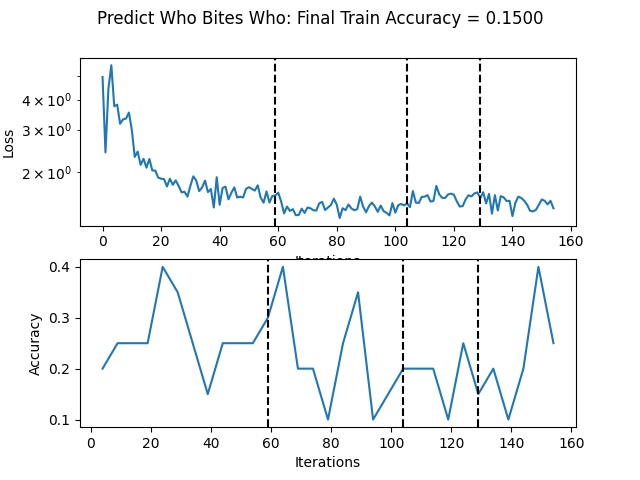
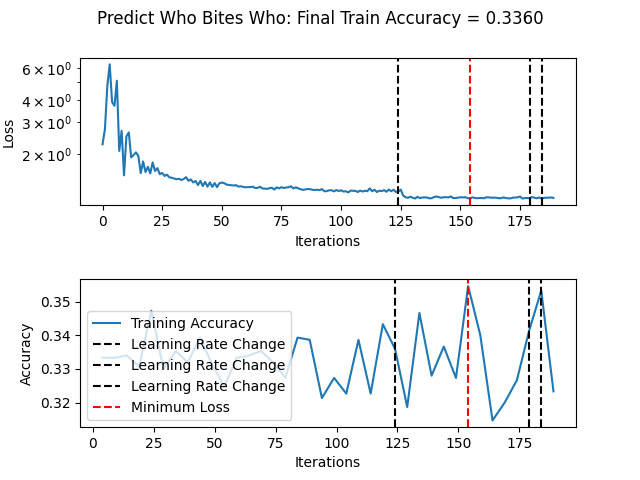
bites bites bites bite sbies bites bites bites bites BITES BTIES BITES BITES BITES BITES BITES BITES

diff --git a/Hw_6/runners/predict_who_bites_who.py b/Hw_6/runners/predict_who_bites_who.py
@@ -1,3 +1,4 @@
+import tempfile
 from pathlib import Path
 
 import matplotlib.pyplot as plt
@@ -8,7 +9,6 @@ import yaml
 from datasets import load_dataset
 
 from helpers.adam import Adam
-from helpers.tokenizer import Tokenizer
 from modules.transformer_decoder import TransformerDecoder
 
 
@@ -37,7 +37,6 @@ def train(config_path: Path, use_last_checkpoint: bool):
     num_iters = config["learning"]["num_iters"]
     weight_decay = config["learning"]["weight_decay"]
     context_length = config["data"]["context_length"]
-    min_vocab_size = config["data"]["min_vocab_size"]
     num_heads = config["transformer"]["num_heads"]
     model_dim = config["transformer"]["model_dim"]
     ffn_dim = config["transformer"]["ffn_dim"]
@@ -47,34 +46,18 @@ def train(config_path: Path, use_last_checkpoint: bool):
     rng.reset_from_seed(0x43966E87BD57227011B5B03B58785EC1)
     tf.random.set_seed(0x43966E87BD57227011B5B03B58785EC1)
 
-    # TODO: padding mask
-    with open("data/who_bites_who.txt", "r", encoding="utf-8") as f:
-        one_big_slab_of_text = f.read()
-
-    tokenizer = Tokenizer(context_length, False)
-    tokenized_text = tokenizer(one_big_slab_of_text)
-
-    # add the start token
-    targets = tokenized_text
-    hashed_targets = tf.strings.to_hash_bucket_fast(targets, min_vocab_size)
-
-    tokenized_text = tf.concat(
-        [
-            tf.fill([tokenized_text.shape[0], 1], b"<START>"),
-            tokenized_text,
-        ],
-        axis=1,
-    )
-    tokenized_text = tokenized_text[:, :-1]
+    input_file = "data/who_bites_who.txt"
 
     transformer_decoder = TransformerDecoder(
-        min_vocab_size,
         context_length,
         num_heads,
         model_dim,
         ffn_dim,
         num_blocks,
+        input_file,
     )
+
+    text, targets = transformer_decoder.get_tokens_and_targets()
 
     used_patience = 0
     minimum_train_loss = np.inf
@@ -97,9 +80,11 @@ def train(config_path: Path, use_last_checkpoint: bool):
     )
 
     checkpoint = tf.train.Checkpoint(transformer_decoder)
+    # create a temporary directory to store the checkpoints
+    temp_dir = tempfile.mkdtemp()
     checkpoint_manager = tf.train.CheckpointManager(
         checkpoint,
-        "temp/checkpointtemp/checkpoints/predict_who_bites_whos/predict_who_bites_who",
+        temp_dir,
         max_to_keep=1,
     )
     if use_last_checkpoint:
@@ -120,12 +105,12 @@ def train(config_path: Path, use_last_checkpoint: bool):
 
     for i in bar:
         batch_indices = rng.uniform(
-            shape=[batch_size], maxval=tokenized_text.shape[0], dtype=tf.int32
+            shape=[batch_size], maxval=text.shape[0], dtype=tf.int32
         )
 
         with tf.GradientTape() as tape:
-            input_tokens_batch = tf.gather(tokenized_text, batch_indices)
-            targets_batch = tf.gather(hashed_targets, batch_indices)
+            input_tokens_batch = tf.gather(text, batch_indices)
+            targets_batch = tf.gather(targets, batch_indices)
 
             labels = targets_batch
             logits = transformer_decoder(input_tokens_batch)
@@ -194,34 +179,55 @@ def train(config_path: Path, use_last_checkpoint: bool):
                 learning_rate_index += 1
                 adam.learning_rate = learning_rates[learning_rate_index]
                 learning_rate_change_steps = np.append(learning_rate_change_steps, i)
-                minimum_loss_step_num = i
-                # TODO: i feel like this should be here but smth is wrong
-                # checkpoint_manager.restore_or_initialize()
+                checkpoint_manager.restore_or_initialize()
 
     checkpoint_manager.restore_or_initialize()
+
+    # delete the temporary directory
+    tf.io.gfile.rmtree(temp_dir)
+
     checkpoint_manager = tf.train.CheckpointManager(
         checkpoint, "artifacts/who_bites_who/model", max_to_keep=1
     )
+    checkpoint_manager.save()
 
     batch_indices = rng.uniform(
-        shape=[batch_size], maxval=tokenized_text.shape[0], dtype=tf.int32
+        shape=[batch_size], maxval=text.shape[0], dtype=tf.int32
     )
-    input_tokens_batch = tf.gather(tokenized_text, batch_indices)
-    targets_batch = tf.gather(hashed_targets, batch_indices)
+    input_tokens_batch = tf.gather(text, batch_indices)
+    targets_batch = tf.gather(targets, batch_indices)
 
     fig, ax = plt.subplots(2, 1)
+    plt.subplots_adjust(hspace=0.5)
 
     ax[0].semilogy(x_train_loss_iterations, y_train_batch_loss, label="Training Loss")
     for learning_rate_change_step in learning_rate_change_steps:
-        ax[0].axvline(x=learning_rate_change_step, color="black", linestyle="dashed")
+        ax[0].axvline(
+            x=learning_rate_change_step,
+            color="black",
+            linestyle="dashed",
+            label="Learning Rate Change",
+        )
+    ax[0].axvline(
+        x=minimum_loss_step_num, color="red", linestyle="dashed", label="Minimum Loss"
+    )
     ax[0].set_xlabel("Iterations")
     ax[0].set_ylabel("Loss")
 
     ax[1].plot(x_train_accuracy_iterations, y_train_accuracy, label="Training Accuracy")
     for learning_rate_change_step in learning_rate_change_steps:
-        ax[1].axvline(x=learning_rate_change_step, color="black", linestyle="dashed")
+        ax[1].axvline(
+            x=learning_rate_change_step,
+            color="black",
+            linestyle="dashed",
+            label="Learning Rate Change",
+        )
+    ax[1].axvline(
+        x=minimum_loss_step_num, color="red", linestyle="dashed", label="Minimum Loss"
+    )
     ax[1].set_xlabel("Iterations")
     ax[1].set_ylabel("Accuracy")
+    ax[1].legend()
 
     print("\n\n\n\n")
 
@@ -294,6 +300,8 @@ def test(model_path: Path):
 
     file = open("artifacts/agnews/classify_agnews_test_accuracy.txt", "w")
     file.write(f"{test_accuracy_value:0.4f}")
+    file.close()
+    file.close()
     file.close()
     file.close()
     file.close()

diff --git a/Hw_6/modules/transformer_decoder.py b/Hw_6/modules/transformer_decoder.py
@@ -1,7 +1,10 @@
+import tempfile
+
 import tensorflow as tf
 
-from helpers.embedder import Embedder
+from helpers.embed_to_vocab_file import EmbedToVocabFile
 from helpers.positional_encoding import PositionalEncoding
+from helpers.tokenizer import Tokenizer
 from modules.linear import Linear
 from modules.transformer_decoder_block import TransformerDecoderBlock
 
@@ -20,24 +23,35 @@ class TransformerDecoder(tf.Module):
         model_dim: Size of each attention head for value, query, and queue.
         ffn_dim: Size of the hidden layer in the feed-forward network.
         num_blocks: Number of transformer decoder blocks.
+        input_file: Path to the input file. Cannot be None for training.
+        vocab_file: Path to the vocab file. If None, a temporary file will be created.
         dropout: Dropout probability.
 
     Call arguments:
         input: Input `Tensor` of shape `(B, seq_len)`.
         mask: Optional mask tensor of shape `(B, seq_len, seq_len)`.
+
+    Returns:
+        Output `Tensor` of shape `(B, seq_len, vocab_size)`.
     """
 
     def __init__(
         self,
-        min_vocab_size,
         context_length,
         num_heads,
         model_dim,
         ffn_dim,
         num_blocks,
+        input_file=None,
+        vocab_file=None,
         dropout_prob=0.1,
     ):
-        self.embedder = Embedder(min_vocab_size, model_dim)
+        self.input_file = input_file
+        self.context_length = context_length
+        if vocab_file is None:
+            vocab_file = self.create_vocab_file(input_file)
+
+        self.embedder = EmbedToVocabFile(vocab_file, model_dim)
         self.positional_encoding = PositionalEncoding(context_length, model_dim)
 
         self.layers = [
@@ -45,7 +59,49 @@ class TransformerDecoder(tf.Module):
             for _ in range(num_blocks)
         ]
 
-        self.linear = Linear(model_dim, min_vocab_size)
+        self.vocab_size = self.embedder.get_vocab_size()
+        self.linear = Linear(model_dim, self.vocab_size)
+
+    def create_vocab_file(self, input_file):
+        # Open the input file and read its contents
+        with open(input_file, "r", encoding="utf-8") as f:
+            input_text = f.read()
+
+        # Tokenize the contents of the file
+        tokenizer = Tokenizer(self.context_length, False)
+        tokenized_text = tokenizer(input_text)
+
+        # Flatten the tokenized_text tensor to 1D
+        flattened_text = tf.reshape(tokenized_text, [-1])
+
+        # Create a tensor of unique tokens
+        unique_tokens, _ = tf.unique(flattened_text)
+
+        # Write these unique tokens to a new vocab file
+        vocab_file = tempfile.NamedTemporaryFile(delete=False)
+        with open(vocab_file.name, "w", encoding="utf-8") as vocab_file:
+            for token in unique_tokens.numpy():
+                vocab_file.write(f"{token.decode('utf-8')}")
+                if token != unique_tokens[-1]:
+                    vocab_file.write("\n")
+        return vocab_file
+
+    def get_tokens_and_targets(self):
+        with open(self.input_file, "r", encoding="utf-8") as f:
+            input_text = f.read()
+
+        tokenizer = Tokenizer(self.context_length, False)
+        tokenized_text = tokenizer(input_text)
+
+        tokenized_targets = tokenized_text[:, 1:]
+        tokenized_text = tokenized_text[:, :-1]
+
+        targets = self.embedder.tokens_to_ids(tokenized_targets)
+
+        return tokenized_text, targets
+
+    def decode(self, logits):
+        return self.embedder.decode(logits)
 
     def __call__(self, input_tokens, mask=False, training=True):
         embeddings = self.embedder(input_tokens)

diff --git a/Hw_6/helpers/embed_to_vocab_file.py b/Hw_6/helpers/embed_to_vocab_file.py
@@ -1,0 +1,94 @@
+import tensorflow as tf
+
+
+class EmbedToVocabFile(tf.Module):
+    def __init__(self, vocab_file, embedding_depth):
+        rng = tf.random.get_global_generator()
+
+        self.vocab_file = vocab_file
+        vocab_initializer = tf.lookup.TextFileInitializer(
+            vocab_file.name,
+            key_dtype=tf.string,
+            key_index=tf.lookup.TextFileIndex.WHOLE_LINE,
+            value_dtype=tf.int64,
+            value_index=tf.lookup.TextFileIndex.LINE_NUMBER,
+        )
+
+        self.vocab_table = tf.lookup.StaticHashTable(
+            vocab_initializer, default_value=-1
+        )
+
+        self.embedding_depth = embedding_depth
+        stddev = tf.cast(
+            tf.sqrt(2 / (self.vocab_table.size() * embedding_depth)), tf.float32
+        )
+        self.embedding = tf.Variable(
+            rng.normal(
+                shape=[self.vocab_table.size(), embedding_depth],
+                stddev=stddev,
+            ),
+            trainable=True,
+            name="Embedder/embedding",
+        )
+
+    def tokens_to_ids(self, tokens):
+        """
+        Convert the tokens into integers.
+
+        Args:
+            tokens (tf.Tensor): The tokenized text. Shape: [batch_size, num_tokenized_words]
+
+        Returns:
+            tf.Tensor: The integer IDs of the tokens.
+        """
+        return tf.cast(self.vocab_table.lookup(tokens), tf.int32)
+
+    def decode(self, logits):
+        """
+        Decode the logits into tokens.
+
+        Args:
+            logits (tf.Tensor): The logits. Shape: [batch_size, num_tokenized_words, vocab_size]
+
+        Returns:
+            tf.Tensor: The tokens corresponding to the logits. Shape: [batch_size, num_tokenized_words]
+        """
+        reverse_vocab = []
+        with open(self.vocab_file.name, "r", encoding="utf-8") as f:
+            for line in f:
+                reverse_vocab.append(line.strip())
+
+        # Get the most likely token ID for each embedding
+        probabilities = tf.nn.softmax(logits, axis=-1)
+
+        # Get the most likely token ID for each embedding
+        token_ids = tf.argmax(probabilities, axis=-1, output_type=tf.int64)
+
+        # Convert the token IDs into tokens
+        tokens = tf.gather(reverse_vocab, token_ids)
+
+        return tokens
+
+    def get_vocab_size(self):
+        """
+        Get the size of the vocabulary.
+
+        Returns:
+            int: The size of the vocabulary
+        """
+        return tf.cast(self.vocab_table.size(), tf.int32)
+
+    def __call__(self, tokens):
+        """
+        Embed the tokenized text.
+
+        Args:
+            tokens (tf.Tensor): The tokenized text. Shape: [batch_size, num_tokenized_words]
+
+        Returns:
+            tf.Tensor: The embeddings of the tokens.
+            Shape should be [batch_size, num_tokenized_words, embedding_depth]
+        """
+        token_ids = self.tokens_to_ids(tokens)
+        embeddings = tf.nn.embedding_lookup(self.embedding, token_ids)
+        return embeddings

diff --git a/Hw_6/modules/linear.py b/Hw_6/modules/linear.py
@@ -2,14 +2,16 @@ import tensorflow as tf
 
 
 class Linear(tf.Module):
-    def __init__(self,
-                 num_inputs,
-                 num_outputs,
-                 bias=True,
-                 zero_init=False,):
+    def __init__(
+        self,
+        num_inputs,
+        num_outputs,
+        bias=True,
+        zero_init=False,
+    ):
         rng = tf.random.get_global_generator()
 
-        stddev = tf.math.sqrt(2 / (num_inputs + num_outputs))
+        stddev = tf.cast(tf.math.sqrt(2 / (num_inputs + num_outputs)), tf.float32)
 
         self.bias = bias
 
